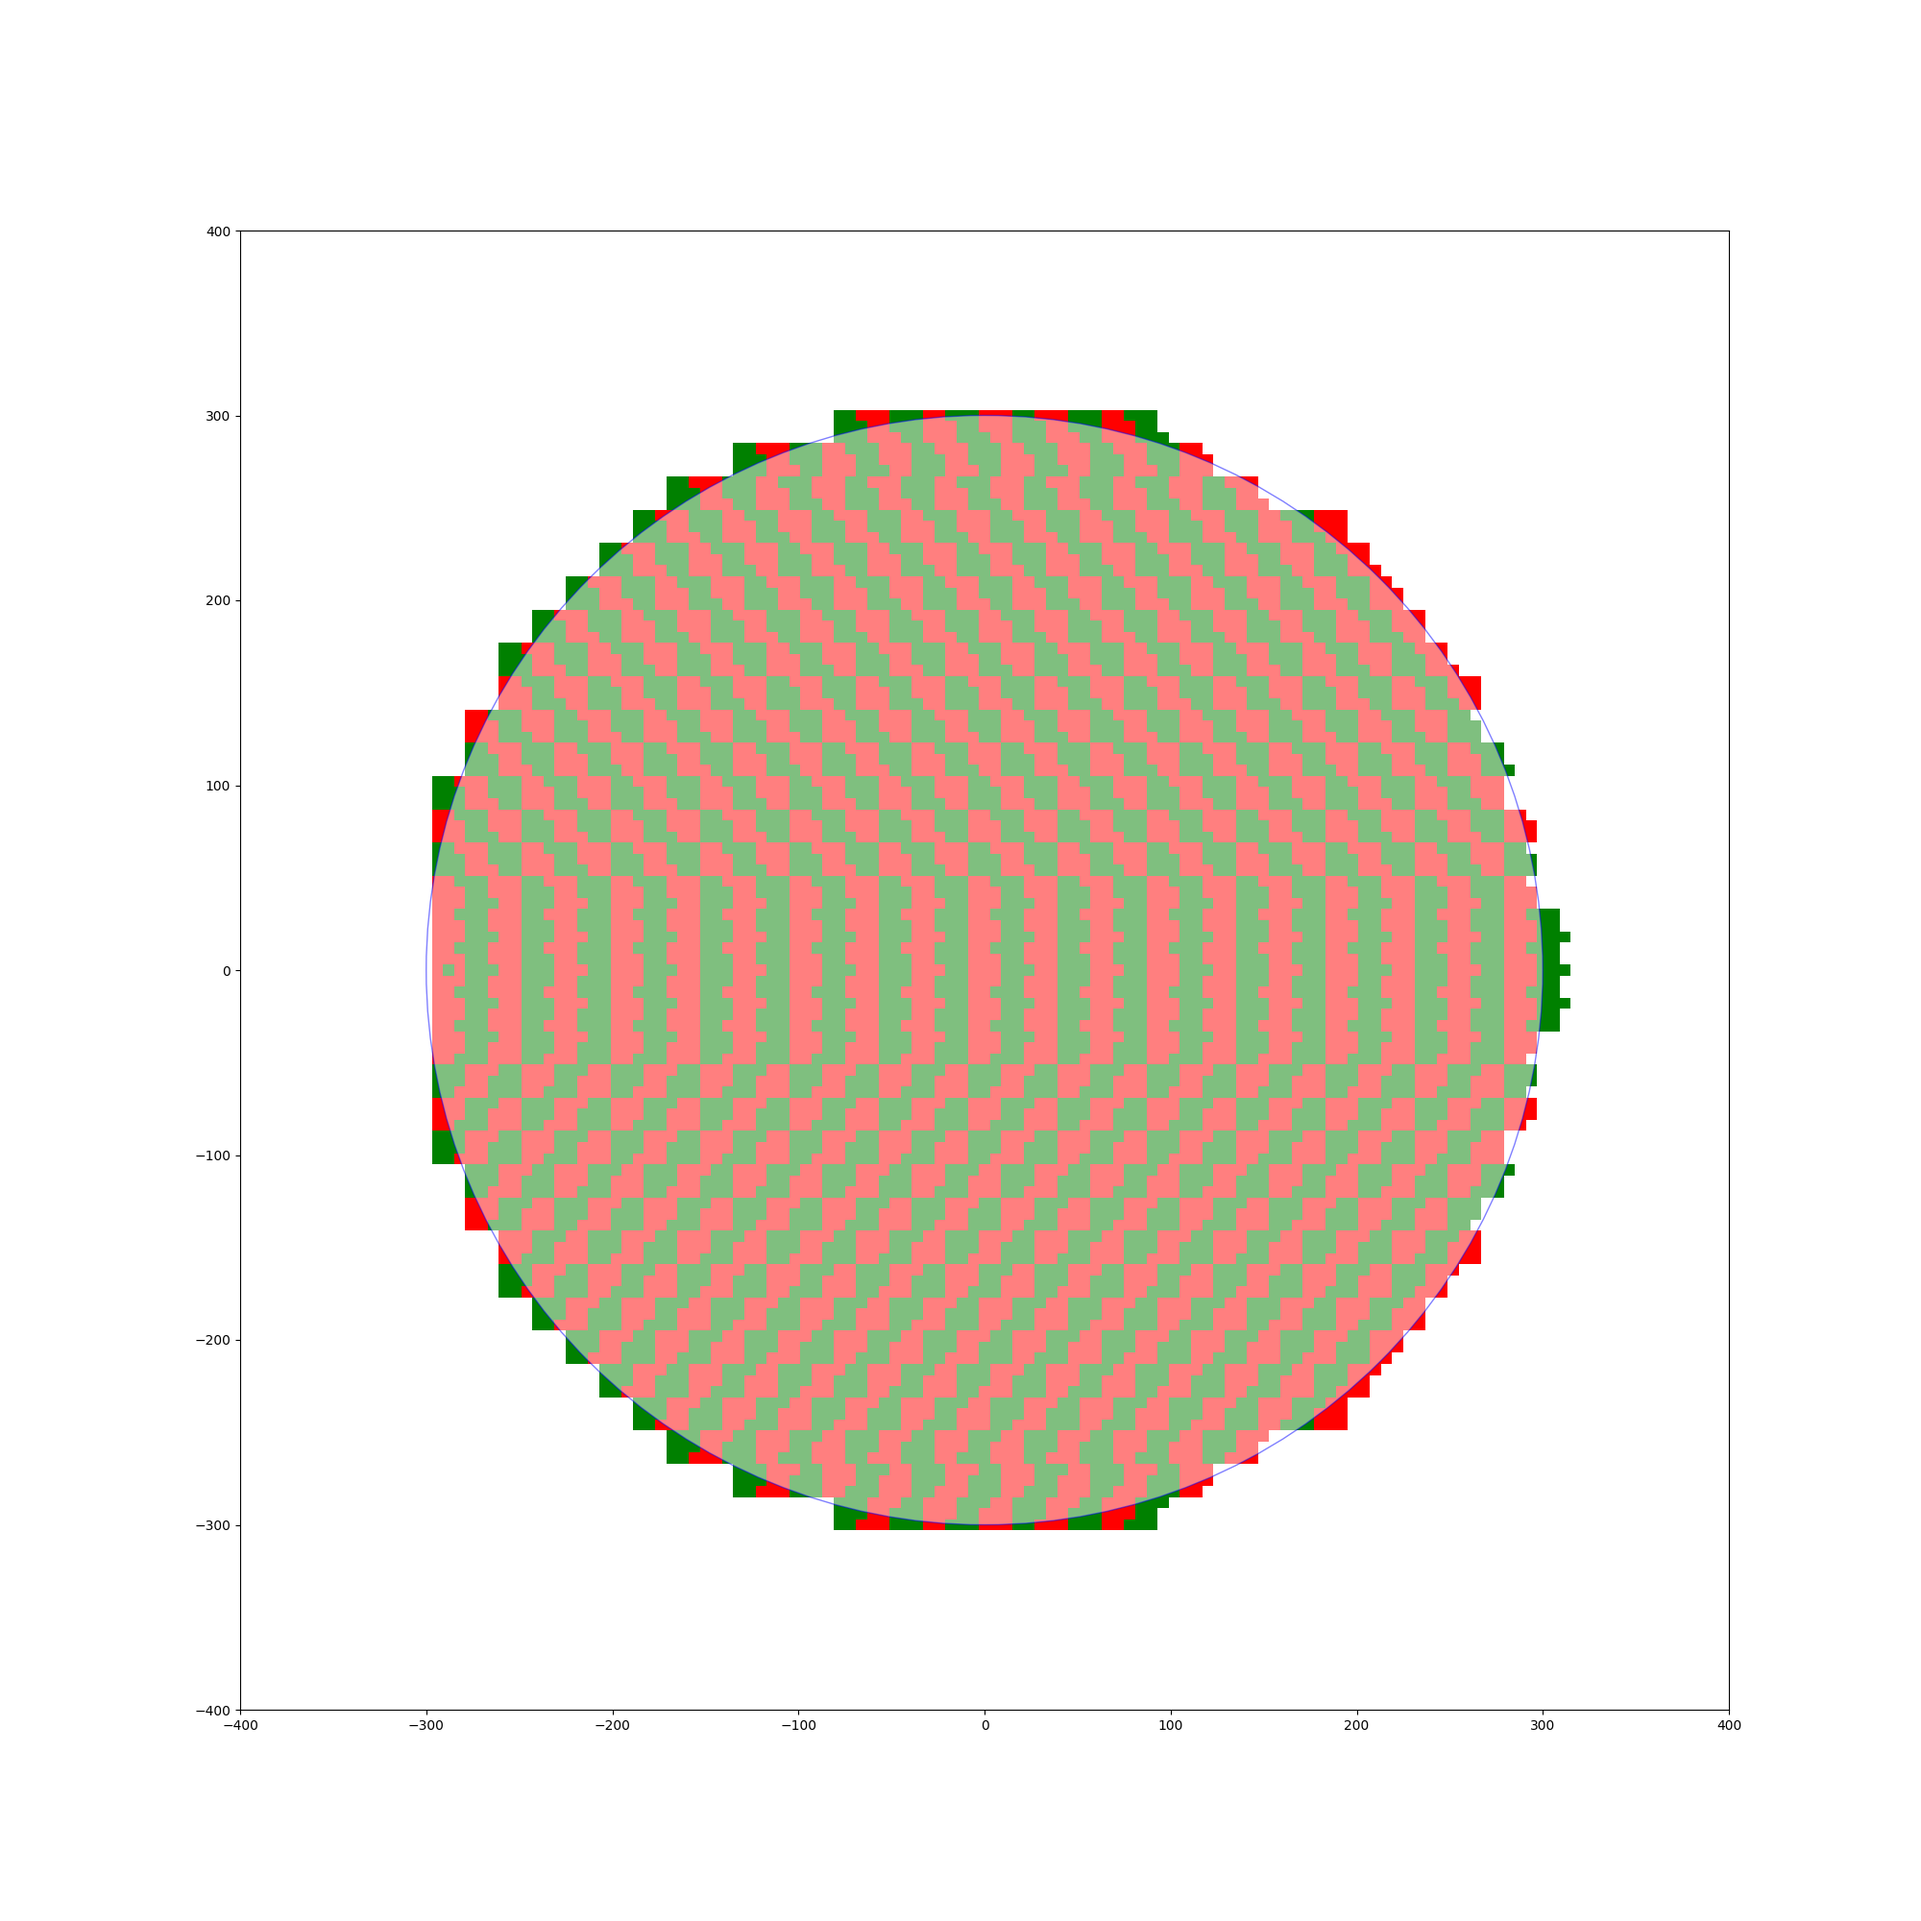
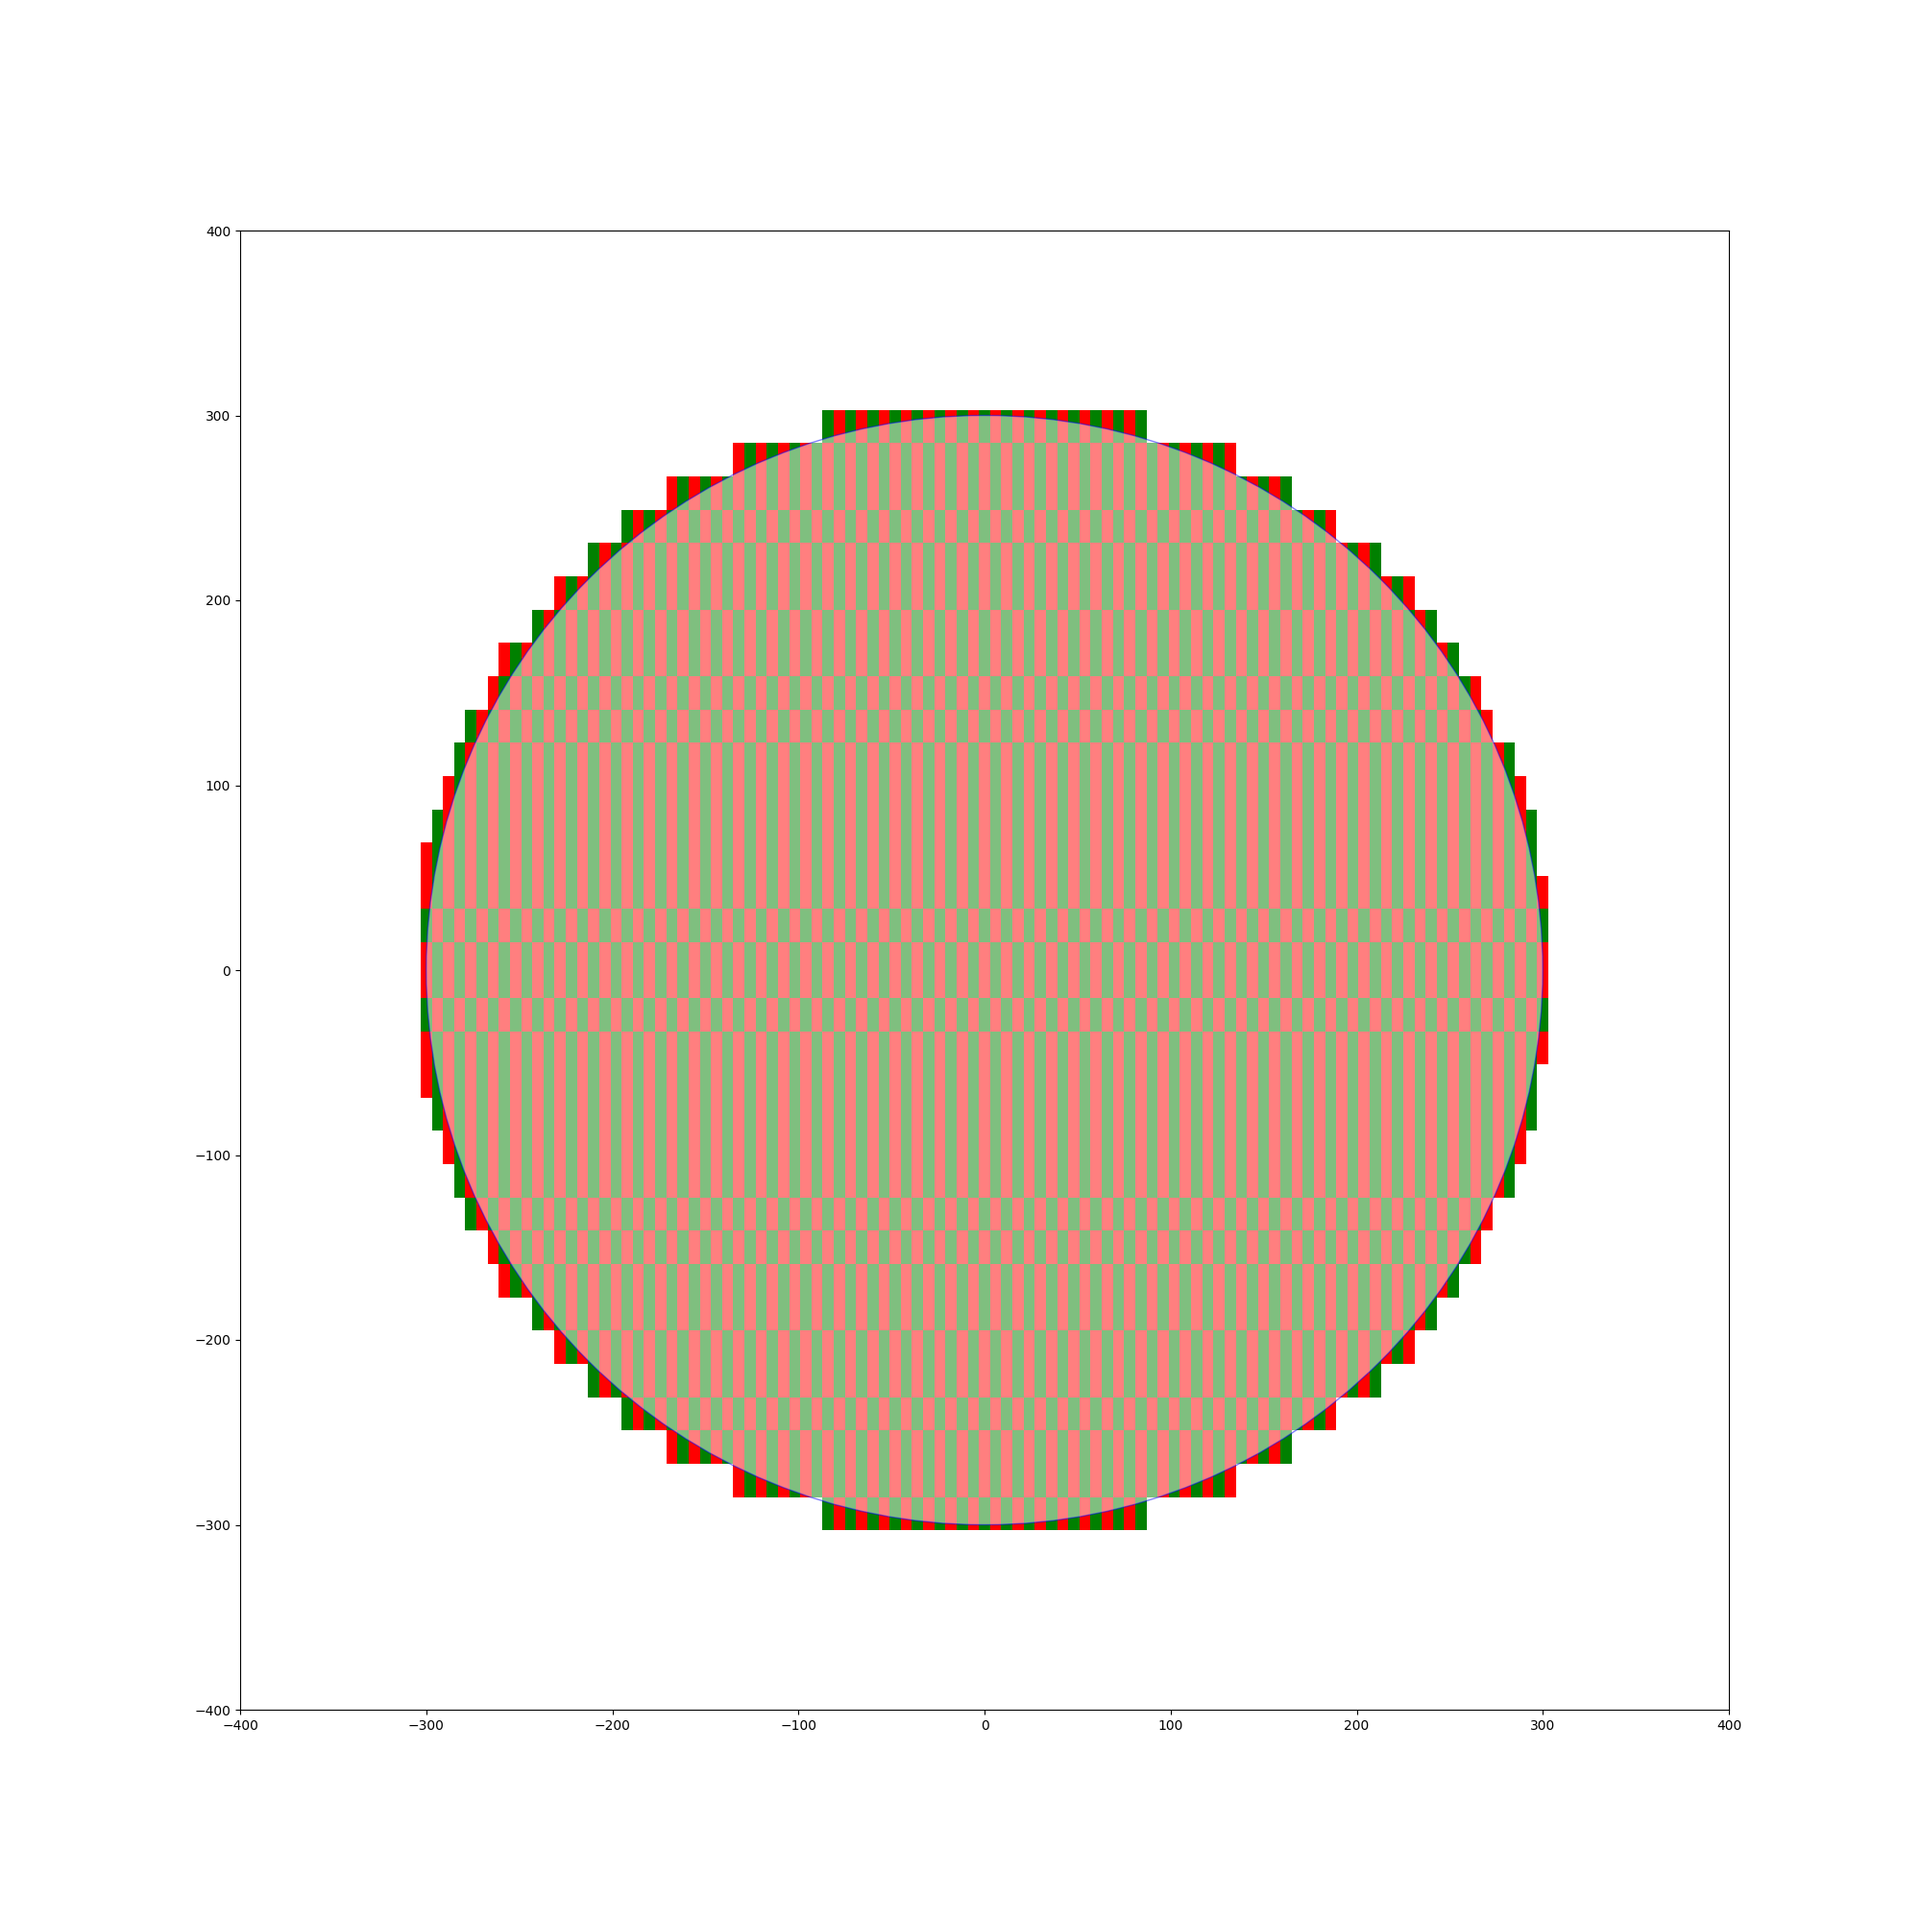
Added 9x9 arrays

Changed region(s): [[0.217, 0.217, 0.837, 0.806]]

diff --git a/NA62/RICH/RICHAlgoVisSiPM_9x9.py b/NA62/RICH/RICHAlgoVisSiPM_9x9.py
@@ -1,0 +1,231 @@
+import numpy as np
+import matplotlib.pyplot as plt
+
+m = 1000
+mm = 2
+
+fPMsIDs = [None]*1000
+for iID in range(1000):
+    fPMsIDs[iID] = [None]*1000
+for iID1 in range(1000):
+    for iID2 in range(1000):
+        fPMsIDs[iID1][iID2] = -1
+
+SiType = 0 # 0 = 3mm, 1 = 6mm, 2 = 9mm
+
+SpotRadius = 0.30 * m
+
+if(SiType == 0):
+    SensorWidth = 0.003 * m 
+    cen_fac = 18/3
+    supercell_fac = 75
+    nRow = 34
+    channels_1 = 32346
+elif SiType == 1:
+    SensorWidth = 0.006 * m 
+    cen_fac = 18/6
+    supercell_fac = 37
+    nRow = 17
+    channels_1 = 8304
+elif SiType == 2:
+    SensorWidth = 0.009 * m
+    cen_fac = 18/9
+    supercell_fac = 25
+    nRow = 12
+    channels_1 = 3924
+
+ConeInputRadius = 0.5 * SensorWidth
+
+nPM = 0
+#nRow = 12
+nSuperCellinRow = [None]*nRow
+
+PM_positions = [[0 for i in range(2)] for i in range(channels_1)]#8496)]
+
+cell_dist = [None]*nRow
+
+x_Center = 0
+y_Center = 0
+
+for i in range(nRow):
+    nSuperCellinRow[i] = 0
+    cell_dist[i] = 0
+
+plo = 0
+animate = False
+x_center = 285
+y_center = 0
+
+
+if animate:
+    fig = plt.figure(figsize=(5,5))
+
+    plt.xlim(-400,400)
+    plt.ylim(-400,400)
+
+    
+
+    circle = plt.Circle((0,0),SpotRadius, fc="white",ec="blue")
+    plt.gca().add_patch(circle)
+    
+def plot(x,y,n,m,l,k,i):
+    if animate:
+        #print(k,l,m,n)
+        shiftx = 1
+        shifty = 1
+        if l%2 == 0:
+            col = "red"
+        else:
+            col = "green"
+        #circle = plt.Circle((x-x_center,y-y_center),7.5, fc=col,ec="blue")
+        rectangle1 = plt.Rectangle((x-x_center*shiftx,y-y_center*shifty), SensorWidth/2, SensorWidth/2, fc=col)
+        rectangle2 = plt.Rectangle((x-x_center*shiftx,y-y_center*shifty), SensorWidth/2, -SensorWidth/2, fc=col)
+        rectangle3 = plt.Rectangle((x-x_center*shiftx,y-y_center*shifty), -SensorWidth/2, SensorWidth/2, fc=col)
+        rectangle4 = plt.Rectangle((x-x_center*shiftx,y-y_center*shifty), -SensorWidth/2, -SensorWidth/2, fc=col)
+        #plt.plot(x,y)
+        plt.gca().add_patch(rectangle1)
+        plt.gca().add_patch(rectangle2)
+        plt.gca().add_patch(rectangle3)
+        plt.gca().add_patch(rectangle4)
+        plt.pause(0.0001)
+        if plo == 0:
+            pass
+        else:
+            pass
+            #plt.draw()
+
+for k in range(nRow):
+      #first half
+    nSuperCellinRow[k] = 0
+    x_width = np.sqrt(SpotRadius**2 - ((k)*3*SensorWidth)**2) 
+
+    while((nSuperCellinRow[k] + 1) * SensorWidth * 3/3 < 2*x_width+(SensorWidth)):
+        nSuperCellinRow[k] +=1
+    nSuperCellinRow[k] +=1
+    
+    if(k != 0):
+        cell_dist[k] = int(np.floor((300-x_width) / (SensorWidth)))
+
+    if(k == 0):
+        x_center = 600 - (nSuperCellinRow[k]) * SensorWidth * 3/3 /2 -10
+        #print(x_center)
+    
+    triCell = 0
+    if k%2 == 0:
+        for l in range(nSuperCellinRow[k]):
+            for m in range(0,3):
+                for n in range(-1,0):
+                    
+                    PM_positions[nPM][0] = (n + l + cell_dist[k])*SensorWidth;
+                    PM_positions[nPM][1] = (m + k*3)*SensorWidth; #SensorWidth*m + SensorWidth*k*3
+                    fPMsIDs[n + l*3 + 3*cell_dist[k]][m + k*3] = nPM;
+                    #plot(PM_positions[nPM][0],PM_positions[nPM][1],n,m,l,k,nPM)
+                    nPM += 1
+                    if nPM ==1:
+                        x_center = PM_positions[nPM-1][0] + 300
+    else:
+        for l in range(nSuperCellinRow[k],0,-1):
+            for m in range(0,3):
+                for n in range(-1,0):
+                    
+                    PM_positions[nPM][0] = (n + l + cell_dist[k]-1)*SensorWidth;
+                    PM_positions[nPM][1] = (m + k*3)*SensorWidth; #SensorWidth*m + SensorWidth*k*3
+                    fPMsIDs[n + l*3 + 3*cell_dist[k]][m + k*3] = nPM;
+                    #plot(PM_positions[nPM][0],PM_positions[nPM][1],n,m,l,k,nPM)
+                    nPM += 1
+                    if nPM ==1:
+                        x_center = PM_positions[nPM-1][0] + 300
+            #print(triCell)      
+#end first half
+for j in range(nRow): 
+    triCell = 0
+    if j%2 == 0:
+        for l in range(nSuperCellinRow[j]):
+            for m in range(0,3):
+                for n in range(-1,0):
+                    PM_positions[nPM][0] = (n + l + cell_dist[j])*SensorWidth;
+                                    
+                    PM_positions[nPM][1] = -(m + j*3)*SensorWidth; #SensorWidth*m + SensorWidth*k*3
+                    
+                    fPMsIDs[n + l*3 + 3*cell_dist[j]+ 300][m + j*3 + 300] = nPM;
+                    plot(PM_positions[nPM][0],PM_positions[nPM][1],n,m,l,k,nPM)
+                    nPM += 1
+                    #print(n + l*3 + 3*cell_dist[j] - triCell+ 300)
+    else:
+        for l in range(nSuperCellinRow[j],0,-1):
+            for m in range(0,3):
+                for n in range(-1,0):
+                    PM_positions[nPM][0] = (n + l + cell_dist[j]-1)*SensorWidth;       
+                    PM_positions[nPM][1] = -(m + j*3)*SensorWidth; #SensorWidth*m + SensorWidth*k*3
+                    
+                    fPMsIDs[n + l*3 + 3*cell_dist[j]+ 300][m + j*3 + 300] = nPM;
+                    plot(PM_positions[nPM][0],PM_positions[nPM][1],n,m,l,k,nPM)
+                    nPM += 1
+print(nPM)
+y_center = 0
+
+fGeoIDs = [0]*channels_1
+
+SCID = 0
+UpDwID = 0
+PMinSC = 0
+
+for iPM in range(nPM):
+    break
+    #PMsPositions[iPM].Set(PM_positions[iPM][0] - x_Center, PM_positions[iPM][1] - y_Center);
+    #    G4cout<<iPM<<"\t"<<PM_positions[iPM][0]-x_Center<<"\t"<<PM_positions[iPM][1]-y_Center<<G4endl;
+    if(iPM < channels_1/2):
+        UpDwID = 0
+        SCID = int(iPM / 8)
+    else:
+        UpDwID = 1
+        SCID = int((iPM - (channels_1/2)) / 8)
+
+    
+
+    PMinSC = iPM - (SCID * 8 + channels_1/2 * UpDwID)
+    fGeoIDs[iPM] = UpDwID * 10000 + SCID * 100 + PMinSC; 
+
+    #print(iPM,UpDwID,SCID,PMinSC)
+    
+
+#exit(0)
+#print(fPMsIDs)
+#x_center = 297
+y_center = 0
+ang = 0
+print(nPM)
+if not animate:
+    print("No Animate")
+    fig = plt.figure(figsize=(20,20))
+    plt.xlim(-400,400)
+    plt.ylim(-400,400)
+    circle = plt.Circle((0,0),SpotRadius, fc="white",ec="blue",alpha=0.5)
+    col = 'red'
+    for i in range(len(PM_positions)):
+        
+
+        
+        #print(PM_positions[i][0],PM_positions[i][1])
+        #print(i)
+        rectangle1 = plt.Rectangle((PM_positions[i][0]-x_center,PM_positions[i][1]-y_center), SensorWidth/2, SensorWidth/2, fc=col,angle=ang)
+        rectangle2 = plt.Rectangle((PM_positions[i][0]-x_center,PM_positions[i][1]-y_center), SensorWidth/2, -SensorWidth/2, fc=col,angle=ang)
+        rectangle3 = plt.Rectangle((PM_positions[i][0]-x_center,PM_positions[i][1]-y_center), -SensorWidth/2, SensorWidth/2, fc=col,angle=ang)
+        rectangle4 = plt.Rectangle((PM_positions[i][0]-x_center,PM_positions[i][1]-y_center), -SensorWidth/2, -SensorWidth/2, fc=col,angle=ang)
+        #plt.plot(x,y)
+        plt.gca().add_patch(rectangle1)
+        plt.gca().add_patch(rectangle2)
+        plt.gca().add_patch(rectangle3)
+        plt.gca().add_patch(rectangle4)
+        #plt.draw()
+
+        if ((i)%3 == 2):
+            #print(i)
+            if col == 'red':
+                col='green'
+            else:
+                col='red'
+
+plt.gca().add_patch(circle)
+plt.savefig('SiPM_new_{}.png'.format(SiType))
+plt.show()
